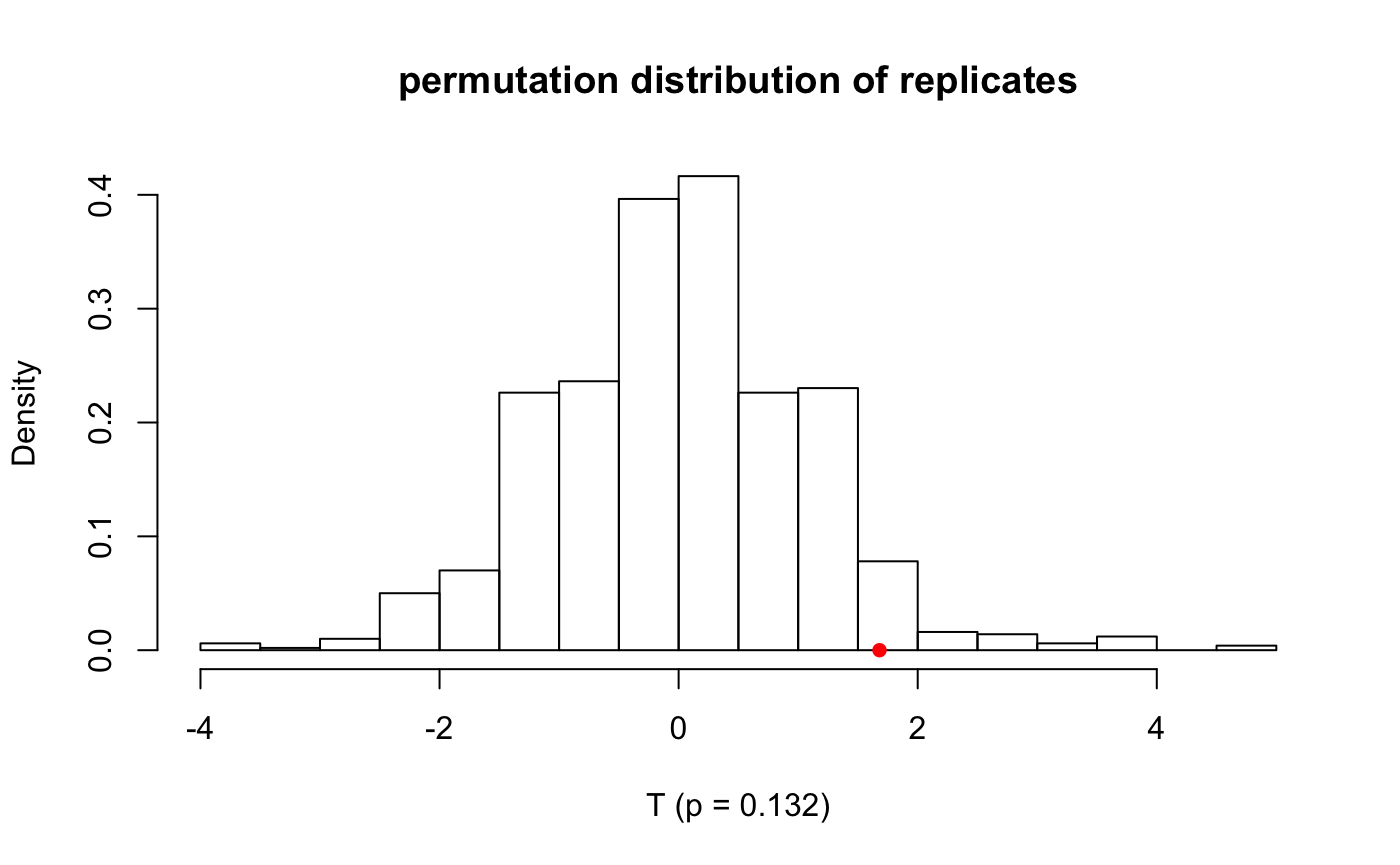
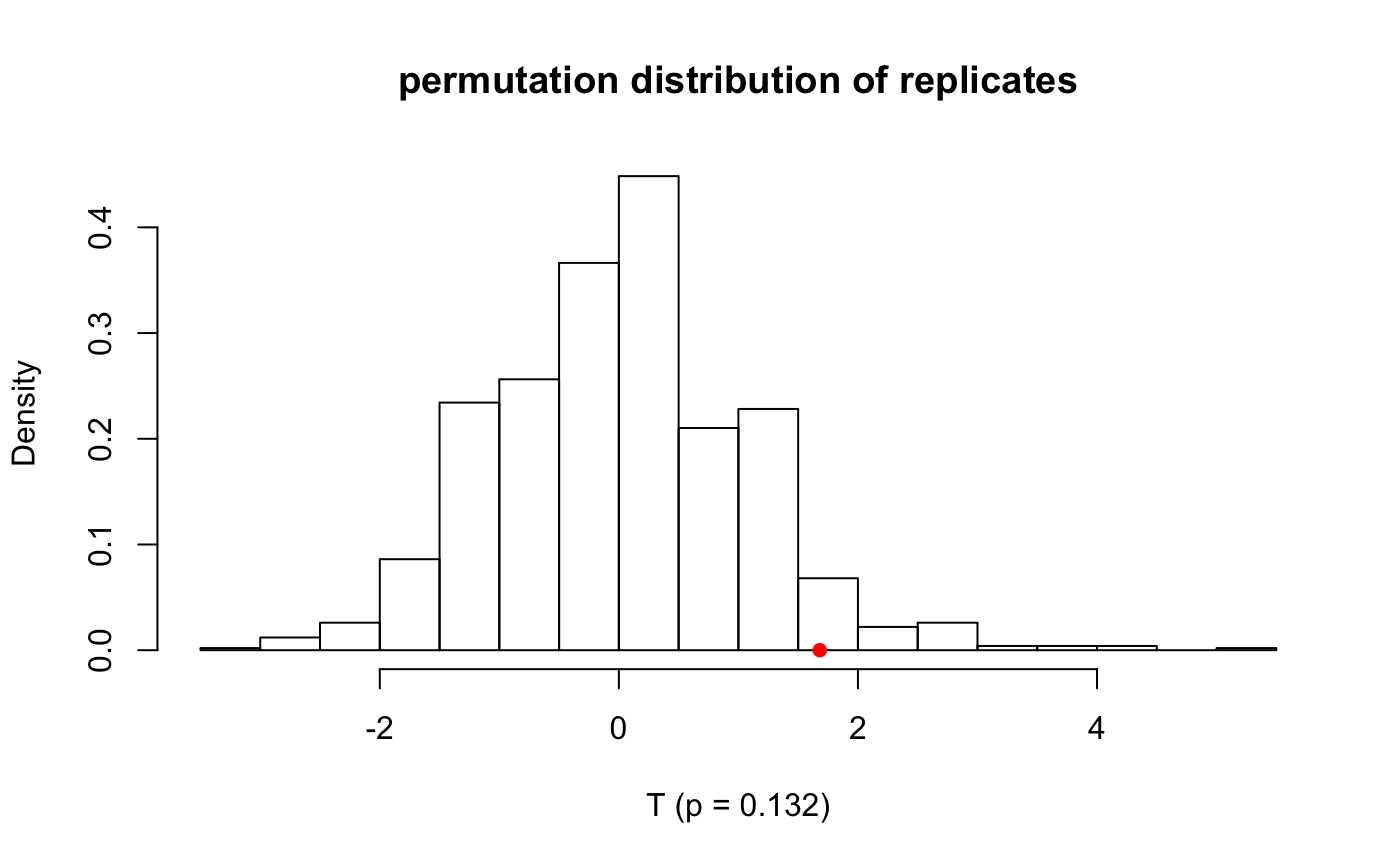
Wrapped up assignment 3

diff --git a/docs/articles/assignment3.html b/docs/articles/assignment3.html
@@ -82,7 +82,7 @@
       <h1>Assignment 3</h1>
                         <h4 class="author">Jasper Ginn</h4>
             
-            <h4 class="date">2018-12-05</h4>
+            <h4 class="date">2018-12-14</h4>
       
       <small class="dont-index">Source: <a href="https://github.com/JasperHG90/meerkat.git/blob/master/vignettes/assignment3.Rmd"><code>vignettes/assignment3.Rmd</code></a></small>
       <div class="hidden name"><code>assignment3.Rmd</code></div>
@@ -200,7 +200,11 @@ grids_out &lt;-<span class="st"> </span><span class="kw">vector</span>(<span cla
 <span class="kw"><a href="http://www.rdocumentation.org/packages/gridExtra/topics/arrangeGrob">grid.arrange</a></span>(grids_out[[<span class="dv">1</span>]], grids_out[[<span class="dv">2</span>]],
              grids_out[[<span class="dv">3</span>]], grids_out[[<span class="dv">4</span>]], 
              <span class="dt">ncol=</span><span class="dv">2</span>, <span class="dt">nrow=</span><span class="dv">2</span>)</code></pre></div>
-<p><img src="assignment3_files/figure-html/unnamed-chunk-2-1.png" width="700"></p>
+<div class="figure">
+<img src="assignment3_files/figure-html/unnamed-chunk-2-1.png" alt="Change in statistical power when all parameters are held constant except the one on the x-axis for each plot" width="700"><p class="caption">
+Change in statistical power when all parameters are held constant except the one on the x-axis for each plot
+</p>
+</div>
 <p>If we compare the results from the empirical test to the R function, we observe:</p>
 <div class="sourceCode"><pre class="sourceCode r"><code class="sourceCode r"><span class="kw">power.t.test</span>(<span class="dt">n=</span><span class="dv">50</span>, <span class="dt">delta=</span><span class="dv">10</span>, <span class="dt">sd=</span><span class="dv">15</span>, <span class="dt">type=</span><span class="st">"two.sample"</span>, 
              <span class="dt">sig.level =</span> <span class="fl">0.05</span>, <span class="dt">alternative=</span><span class="st">"one.sided"</span>)</code></pre></div>
@@ -237,7 +241,7 @@ CSFI &lt;-<span class="st"> </span><span class="kw">c</span>(<span class="dv">2<
 TFI &lt;-<span class="st"> </span><span class="kw">c</span>(<span class="dv">1</span>,<span class="dv">1</span>,<span class="dv">2</span>,<span class="dv">3</span>,<span class="dv">3</span>,<span class="dv">4</span>,<span class="dv">5</span>,<span class="dv">7</span>,<span class="dv">7</span>,<span class="dv">8</span>)</code></pre></div>
 <p>If we assume that the variances are equal, we can apply a two-sample t-test using the permutation method.<a href="#fn2" class="footnoteRef" id="fnref2"><sup>2</sup></a></p>
 <div class="sourceCode"><pre class="sourceCode r"><code class="sourceCode r"><span class="co"># Run</span>
-<span class="kw">set.seed</span>(<span class="dv">1400</span>)
+<span class="kw">set.seed</span>(<span class="dv">1200</span>)
 pt &lt;-<span class="st"> </span><span class="kw"><a href="../reference/permutation_test.html">permutation_test</a></span>(CSFI, TFI, <span class="dv">999</span>)
 pt</code></pre></div>
 <pre><code>## Two-tailed permutation test using 18 observations and 999 permutations
@@ -247,18 +251,19 @@ pt</code></pre></div>
 ## 18   999 1.68    0.132</code></pre>
 <div class="sourceCode"><pre class="sourceCode r"><code class="sourceCode r"><span class="kw">plot</span>(pt)</code></pre></div>
 <p><img src="assignment3_files/figure-html/unnamed-chunk-7-1.png" width="700"></p>
-<div class="sourceCode"><pre class="sourceCode r"><code class="sourceCode r"><span class="kw">t.test</span>(CSFI, TFI)</code></pre></div>
+<div class="sourceCode"><pre class="sourceCode r"><code class="sourceCode r"><span class="kw">t.test</span>(CSFI, TFI, <span class="dt">var.equal =</span> <span class="ot">TRUE</span>)</code></pre></div>
 <pre><code>## 
-##  Welch Two Sample t-test
+##  Two Sample t-test
 ## 
 ## data:  CSFI and TFI
-## t = 1.7161, df = 15.947, p-value = 0.1055
+## t = 1.6805, df = 16, p-value = 0.1123
 ## alternative hypothesis: true difference in means is not equal to 0
 ## 95 percent confidence interval:
-##  -0.4477771  4.2477771
+##  -0.4967883  4.2967883
 ## sample estimates:
 ## mean of x mean of y 
 ##       6.0       4.1</code></pre>
+<p>The results lead to the same conclusion, although the p-value obtained using the permutation test is 15% higher.</p>
 <ol start="2" style="list-style-type: decimal">
 <li><strong>How would you program the drawing of random samples when you do not want to use the sample() function? Modify the function you have programmed in (1) in such a way that it does not use the sample() function anymore. Run your new function and show that you can obtain the same results as in (1).</strong></li>
 </ol>
@@ -267,7 +272,7 @@ pt</code></pre></div>
 <span class="co"># This draws 5 values from a uniform with a=0 and b=1</span>
 <span class="kw">runif</span>(<span class="dv">5</span>)</code></pre></div>
 <pre><code>## [1] 0.30776611 0.25767250 0.55232243 0.05638315 0.46854928</code></pre>
-<p>If we wanted 80% of our rows randomly sampled, then we subset the probabilities generated by the uniform distribution such that they are below <span class="math inline">\(0.8\)</span>. This works because the uniform distribution is linear.</p>
+<p>If we wanted <span class="math inline">\(80\)</span>% of our rows randomly sampled, then we subset the probabilities generated by the uniform distribution such that they are below <span class="math inline">\(0.8\)</span>. This works because, we know that, if a random variable <span class="math inline">\(X\)</span> has a uniform density with <span class="math inline">\(a, b \in \mathbb{R} \implies P\left[X &lt; a + P(b - a)\right] = P\)</span>.</p>
 <div class="sourceCode"><pre class="sourceCode r"><code class="sourceCode r"><span class="co"># Sample from the density from 0 to 1</span>
 <span class="kw">library</span>(ggplot2)
 <span class="kw">library</span>(gridExtra)
@@ -281,32 +286,24 @@ p3 &lt;-<span class="st"> </span><span class="kw"><a href="https://ggplot2.tidyv
 <span class="st">  </span><span class="kw"><a href="https://ggplot2.tidyverse.org/reference/geom_abline.html">geom_hline</a></span>(<span class="dt">yintercept =</span> <span class="fl">0.75</span>, <span class="dt">col =</span> <span class="st">"red"</span>, <span class="dt">linetype =</span> <span class="dv">3</span>)
 <span class="kw"><a href="http://www.rdocumentation.org/packages/gridExtra/topics/arrangeGrob">grid.arrange</a></span>(p1, p2,p3, <span class="dt">ncol=</span><span class="dv">3</span>)</code></pre></div>
 <p><img src="assignment3_files/figure-html/unnamed-chunk-10-1.png" width="700"></p>
-<p>In the third plot above, we see that approximately 50% of the data lies below the median and 50% lies above it. Hence, if we wanted to sample 80% of our data, we would expect that proportion to be correct <em>on average</em> due to the randomness of the draws. We can demonstrate this as follows: sample 80% of the values of a sequence of numbers from 1 to 20 and take the length of this sequence</p>
-<div class="sourceCode"><pre class="sourceCode r"><code class="sourceCode r"><span class="kw">set.seed</span>(<span class="dv">20</span>)
-obs_drawn &lt;-<span class="st"> </span><span class="kw">vapply</span>(<span class="dv">1</span><span class="op">:</span><span class="dv">2000</span>, <span class="cf">function</span>(x) <span class="kw">length</span>(<span class="kw">seq</span>(<span class="dv">1</span>,<span class="dv">20</span>,<span class="dv">1</span>)[<span class="kw">runif</span>(<span class="dv">20</span>) <span class="op">&lt;</span><span class="st"> </span><span class="fl">0.8</span>]), <span class="dv">0</span>)
-<span class="kw">hist</span>(obs_drawn)</code></pre></div>
-<p><img src="assignment3_files/figure-html/unnamed-chunk-11-1.png" width="700"></p>
-<div class="sourceCode"><pre class="sourceCode r"><code class="sourceCode r">mu20 &lt;-<span class="st"> </span><span class="kw">mean</span>(obs_drawn) <span class="co"># += 16</span>
-sd20&lt;-<span class="st"> </span><span class="kw">sqrt</span>(<span class="kw">var</span>(obs_drawn)) <span class="co"># +- 1.76</span>
-err &lt;-<span class="st"> </span><span class="kw">sqrt</span>(<span class="kw">var</span>(obs_drawn)) <span class="op">/</span><span class="st"> </span><span class="dv">16</span></code></pre></div>
-<p>So on average, we draw 16 observations with an sd of 1.76 or +- 11% error. We can do the same for 100 observations:</p>
-<div class="sourceCode"><pre class="sourceCode r"><code class="sourceCode r"><span class="kw">set.seed</span>(<span class="dv">40</span>)
-obs_drawn &lt;-<span class="st"> </span><span class="kw">vapply</span>(<span class="dv">1</span><span class="op">:</span><span class="dv">2000</span>, <span class="cf">function</span>(x) <span class="kw">length</span>(<span class="kw">seq</span>(<span class="dv">1</span>,<span class="dv">100</span>,<span class="dv">1</span>)[<span class="kw">runif</span>(<span class="dv">100</span>) <span class="op">&lt;</span><span class="st"> </span><span class="fl">0.8</span>]), <span class="dv">0</span>)
-<span class="kw">hist</span>(obs_drawn)</code></pre></div>
-<p><img src="assignment3_files/figure-html/unnamed-chunk-12-1.png" width="700"></p>
-<div class="sourceCode"><pre class="sourceCode r"><code class="sourceCode r">mu100 &lt;-<span class="st"> </span><span class="kw">mean</span>(obs_drawn) <span class="co"># += 80</span>
-sd100&lt;-<span class="st"> </span><span class="kw">sqrt</span>(<span class="kw">var</span>(obs_drawn)) <span class="co"># +- 3.96</span>
-err100 &lt;-<span class="st"> </span><span class="kw">sqrt</span>(<span class="kw">var</span>(obs_drawn)) <span class="op">/</span><span class="st"> </span><span class="dv">80</span> <span class="co"># 5%</span></code></pre></div>
-<p>On average, this gives us the right number of observations. We expect the ‘error’ (measured above as the standard deviation divided by the expected sample size) to go down as the sample size <span class="math inline">\(n \to \infty\)</span>.</p>
-<p>In the <code><a href="../reference/permutation_test.html">permutation_test()</a></code> function, we can specify whether we want to sample this way using the <code>use_sample()</code> flag. As shown above, there is always a chance that we will draw a sample that is few in number of observations. To make sure that this does not happen, we impose the rule that the proportion of observations may not be above or below one standard error away from the proportion. If this happens, then the function calls itself recursively until the proportion is within acceptable bounds.</p>
+<p>In the third plot above, we see that approximately 50% of the data lies below the median and 50% lies above it. Hence, if we wanted to sample 80% of our data, we would expect that proportion to be correct <em>on average</em> due to the randomness of the draws.</p>
+<p>In the <code><a href="../reference/permutation_test.html">permutation_test()</a></code> function, we can specify whether we want to sample this way using the <code>use_sample()</code> flag. As shown above, there is always a chance that we will draw a sample that is few in number of observations. To make sure that this does not happen, we impose the rule that the proportion of observations may not be above or below one standard error away from the proportion. If this happens, then the function calls itself recursively until the proportion is within acceptable bounds. The bounds may be increased or decreased using the <code>tolerance</code> parameter; the smaller this parameter is, the more we compress the ‘acceptable’ region around the proportion.</p>
 <div class="sourceCode"><pre class="sourceCode r"><code class="sourceCode r"><span class="kw">set.seed</span>(<span class="dv">888</span>)
-pt &lt;-<span class="st"> </span><span class="kw"><a href="../reference/permutation_test.html">permutation_test</a></span>(CSFI, TFI, <span class="dv">999</span>, <span class="dt">use_sample =</span> <span class="ot">FALSE</span>)
+pt &lt;-<span class="st"> </span><span class="kw"><a href="../reference/permutation_test.html">permutation_test</a></span>(CSFI, TFI, <span class="dv">999</span>, <span class="dt">use_sample =</span> <span class="ot">FALSE</span>, <span class="dt">tolerance =</span> <span class="dv">1</span>)
 pt</code></pre></div>
 <pre><code>## Two-tailed permutation test using 18 observations and 999 permutations
 ## 
 ## K    R   t       p
 ## -----------------------------------
 ## 18   999 1.68    0.142</code></pre>
+<div class="sourceCode"><pre class="sourceCode r"><code class="sourceCode r"><span class="kw">set.seed</span>(<span class="dv">888</span>)
+pt &lt;-<span class="st"> </span><span class="kw"><a href="../reference/permutation_test.html">permutation_test</a></span>(CSFI, TFI, <span class="dv">999</span>, <span class="dt">use_sample =</span> <span class="ot">FALSE</span>, <span class="dt">tolerance =</span> <span class="fl">0.5</span>)
+pt</code></pre></div>
+<pre><code>## Two-tailed permutation test using 18 observations and 999 permutations
+## 
+## K    R   t       p
+## -----------------------------------
+## 18   999 1.68    0.15</code></pre>
 <div class="sourceCode"><pre class="sourceCode r"><code class="sourceCode r"><span class="kw">set.seed</span>(<span class="dv">888</span>)
 pt &lt;-<span class="st"> </span><span class="kw"><a href="../reference/permutation_test.html">permutation_test</a></span>(CSFI, TFI, <span class="dv">999</span>, <span class="dt">use_sample =</span> <span class="ot">TRUE</span>)
 pt</code></pre></div>
@@ -315,30 +312,7 @@ pt</code></pre></div>
 ## K    R   t       p
 ## -----------------------------------
 ## 18   999 1.68    0.148</code></pre>
-<p>We may observe different results using these different sampling procedures. This is because the group sizes may vary quite a bit.</p>
-<div class="sourceCode"><pre class="sourceCode r"><code class="sourceCode r"><span class="kw">set.seed</span>(<span class="dv">1000</span>)
-<span class="kw"><a href="../reference/permutation_test.html">permutation_test</a></span>(CSFI, TFI, <span class="dv">999</span>, <span class="dt">use_sample =</span> <span class="ot">FALSE</span>)</code></pre></div>
-<pre><code>## Two-tailed permutation test using 18 observations and 999 permutations
-## 
-## K    R   t       p
-## -----------------------------------
-## 18   999 1.68    0.128</code></pre>
-<div class="sourceCode"><pre class="sourceCode r"><code class="sourceCode r"><span class="kw">set.seed</span>(<span class="dv">1000</span>)
-<span class="kw"><a href="../reference/permutation_test.html">permutation_test</a></span>(CSFI, TFI, <span class="dv">999</span>, <span class="dt">use_sample =</span> <span class="ot">TRUE</span>)</code></pre></div>
-<pre><code>## Two-tailed permutation test using 18 observations and 999 permutations
-## 
-## K    R   t       p
-## -----------------------------------
-## 18   999 1.68    0.124</code></pre>
-<p>This is a problem in the above situation because the results lead to different conclusions about statistical significance at <span class="math inline">\(\alpha=0.1\)</span>. To address this problem, we can change the <code>tolerance</code> parameter. This effectively reduces the standard error around the proportion when using <code>runif</code>. This increased stability comes at the expense of computational efficiency because we will have to sample more often to get the exact proportion.</p>
-<div class="sourceCode"><pre class="sourceCode r"><code class="sourceCode r"><span class="kw">set.seed</span>(<span class="dv">1000</span>)
-<span class="kw"><a href="../reference/permutation_test.html">permutation_test</a></span>(CSFI, TFI, <span class="dv">999</span>, <span class="dt">use_sample =</span> <span class="ot">FALSE</span>, <span class="dt">tolerance =</span> <span class="fl">0.1</span>)</code></pre></div>
-<pre><code>## Two-tailed permutation test using 18 observations and 999 permutations
-## 
-## K    R   t       p
-## -----------------------------------
-## 18   999 1.68    0.112</code></pre>
-<p>The p-value of this function comes close to that of the <code>sample()</code> function, but does not equal it (even if the tolerance is set at <span class="math inline">\(0\)</span>).</p>
+<p>We may observe different results using these different sampling procedures. This is because the group sizes may vary quite a bit. Moreover, by decreasing the tolerance value, we are resampling many more times because we are discarding many samples. I am not entirely sure how this works with the <code>set.seed()</code> function, but testing shows that the results can vary quite a bit. Clearly, this is quite a roundabout way of trying to get rid of the <code>sample()</code> function.</p>
 <p>Another approach to sampling without using the <code>sample()</code> function is to draw values from the binomial distribution.</p>
 <ol start="2" style="list-style-type: decimal">
 <li><strong>Which resampling technique(s) would you use, if you would be interested in estimation instead of hypothesis testing? Make an R function that performs resampling for estimation purposes using the mean difference between two groups from the t-test function. Your function should produce all relevant aspects of estimation, and you should discuss these aspects and put them in perspective. Again use the Flight instruction data to show the results of your function.</strong></li>
@@ -357,11 +331,13 @@ res</code></pre></div>
 ## Percentile bootstrap values :
 ##  alpha       lower       upper
 ##  0.05        -0.13       4.57</code></pre>
-<p>The <code><a href="../reference/boot_ttest.html">boot_ttest()</a></code> function gives us a variety of statistics. The ‘original’ t-statistic is the value we get when we calculate the t-statistic for the input values. The <strong>bias</strong> indicates that, on average, we are over-estimating the t-statistic. This we can also observe from the histogram below as it is skewed to the right.</p>
-<div class="sourceCode"><pre class="sourceCode r"><code class="sourceCode r"><span class="kw">plot</span>(res)</code></pre></div>
-<p><img src="assignment3_files/figure-html/unnamed-chunk-19-1.png" width="700"></p>
-<p>The <strong>standard error</strong> is the standard deviation of the empirical sampling distribution. The <strong>jackknife-after-bootstrap</strong> estimate gives us an idea of the variability within the standard error statistic.</p>
-<p>Finally, the 95% confidence intervals give us the percentile CI for this sample (also shown in the plot above). The confidence intervals are close to those of the theoretical confidence intervals.</p>
+<p>The <code><a href="../reference/boot_ttest.html">boot_ttest()</a></code> function returns a variety of statistics:</p>
+<ol style="list-style-type: decimal">
+<li>The ‘original’ t-statistic is the value we get when we calculate the t-statistic for the input values.</li>
+<li>The <strong>bias</strong> indicates that, on average, we are over-estimating the t-statistic. This we can also observe from the histogram below, which is skewed to the right.</li>
+<li>The standard error is the bootstrap estimate of the sampling distribution standard error. We assess its variability using the jackknife-after-bootstrap estimate (‘jack-after-boot’). We observe that that the variability is rather high.</li>
+<li>The simple percentile bootstrap values (indicated with green dotted lines in the plot below) contain <span class="math inline">\(0\)</span>, which strengthens the conclusion we reached earlier when we failed to reject <span class="math inline">\(H_0\)</span>. The confidence intervals are close to the confidence intervals to those of the theoretical confidence intervals.</li>
+</ol>
 <div class="sourceCode"><pre class="sourceCode r"><code class="sourceCode r"><span class="kw">t.test</span>(CSFI, TFI, <span class="dt">var.equal =</span> <span class="ot">TRUE</span>)</code></pre></div>
 <pre><code>## 
 ##  Two Sample t-test
@@ -374,6 +350,13 @@ res</code></pre></div>
 ## sample estimates:
 ## mean of x mean of y 
 ##       6.0       4.1</code></pre>
+<div class="sourceCode"><pre class="sourceCode r"><code class="sourceCode r"><span class="kw">plot</span>(res)</code></pre></div>
+<div class="figure">
+<img src="assignment3_files/figure-html/unnamed-chunk-16-1.png" alt="Bootstrap distribution of replicates. The red vertical line represents the original t-statistic. The green lines indicate the values of the confidence intervals." width="700"><p class="caption">
+Bootstrap distribution of replicates. The red vertical line represents the original t-statistic. The green lines indicate the values of the confidence intervals.
+</p>
+</div>
+<p>In summary, the above diagnostics show that there is a lot of uncertainty in our point estimate. This is not surprising, given that our sample size is very small.</p>
 </div>
 <div class="footnotes">
 <hr>

diff --git a/docs/articles/assignment2.html b/docs/articles/assignment2.html
@@ -82,7 +82,7 @@
       <h1>Assignment 2</h1>
                         <h4 class="author">Jasper Ginn</h4>
             
-            <h4 class="date">2018-12-05</h4>
+            <h4 class="date">2018-12-14</h4>
       
       <small class="dont-index">Source: <a href="https://github.com/JasperHG90/meerkat.git/blob/master/vignettes/assignment2.Rmd"><code>vignettes/assignment2.Rmd</code></a></small>
       <div class="hidden name"><code>assignment2.Rmd</code></div>
